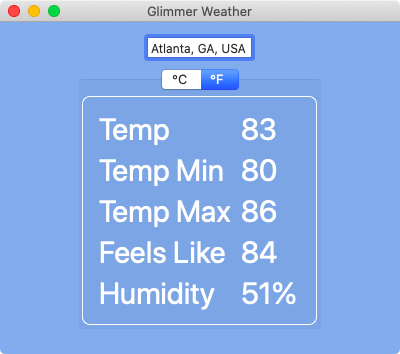
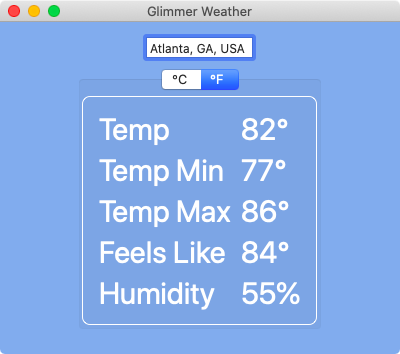
Show degree symbol in Weather app

diff --git a/samples/elaborate/weather.rb b/samples/elaborate/weather.rb
@@ -34,7 +34,7 @@ class Weather
   
   before_body {
     @weather_mutex = Mutex.new
-    self.city = 'Montreal, Qc, CA'
+    self.city = 'Montreal, QC, CA'
     fetch_weather!
   }
   
@@ -99,7 +99,7 @@ class Weather
     name_label(field_name)
     label {
       layout_data(:fill, :center, true, false)
-      text <= [self, field_name, on_read: ->(t) { "#{kelvin_to_temp_unit(t, temp_unit).to_f.round}" }]
+      text <= [self, field_name, on_read: ->(t) { "#{kelvin_to_temp_unit(t, temp_unit).to_f.round}°" }]
       font height: DEFAULT_FONT_HEIGHT
       foreground DEFAULT_FOREGROUND
     }
